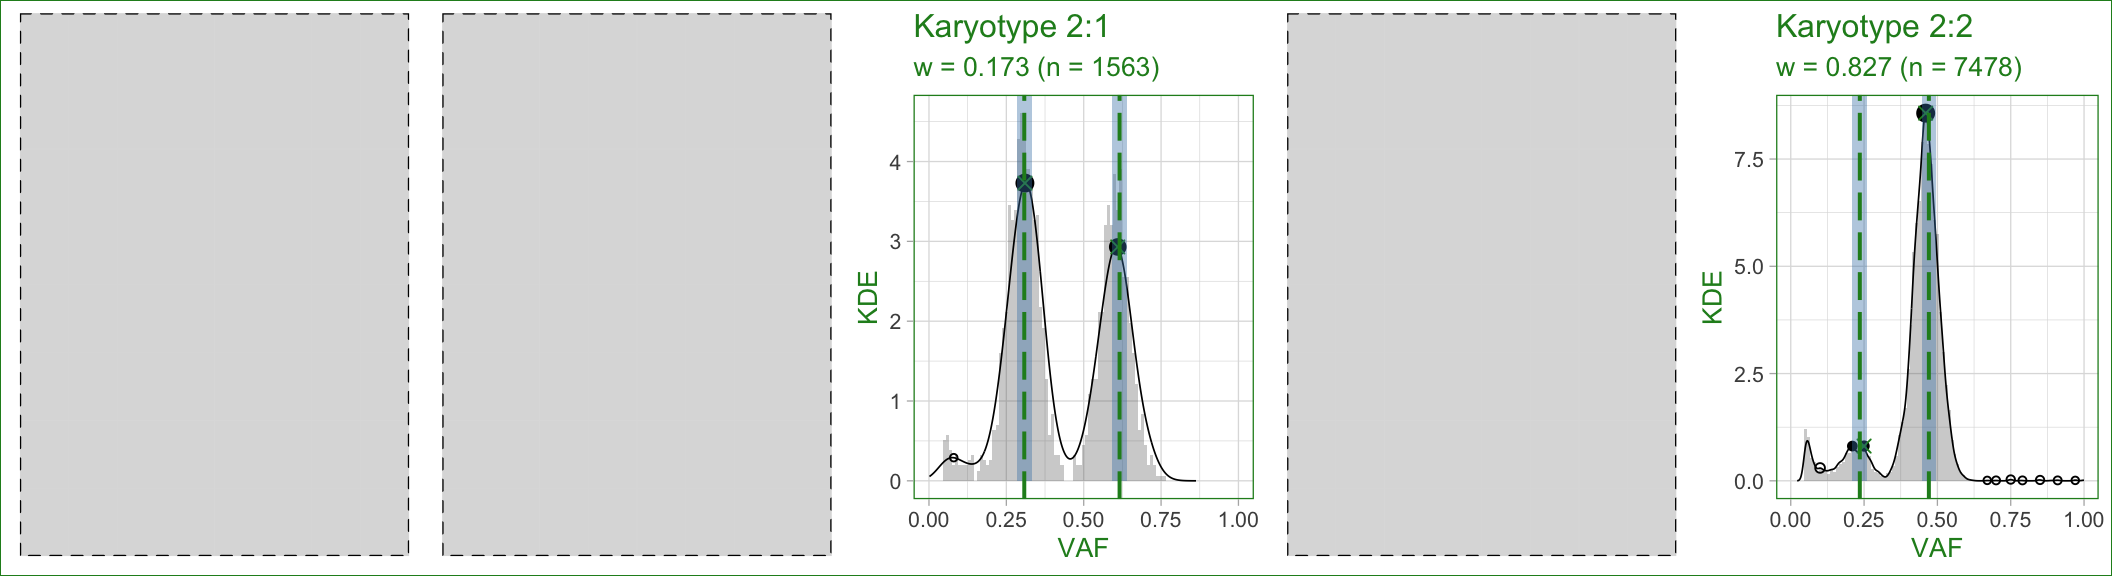
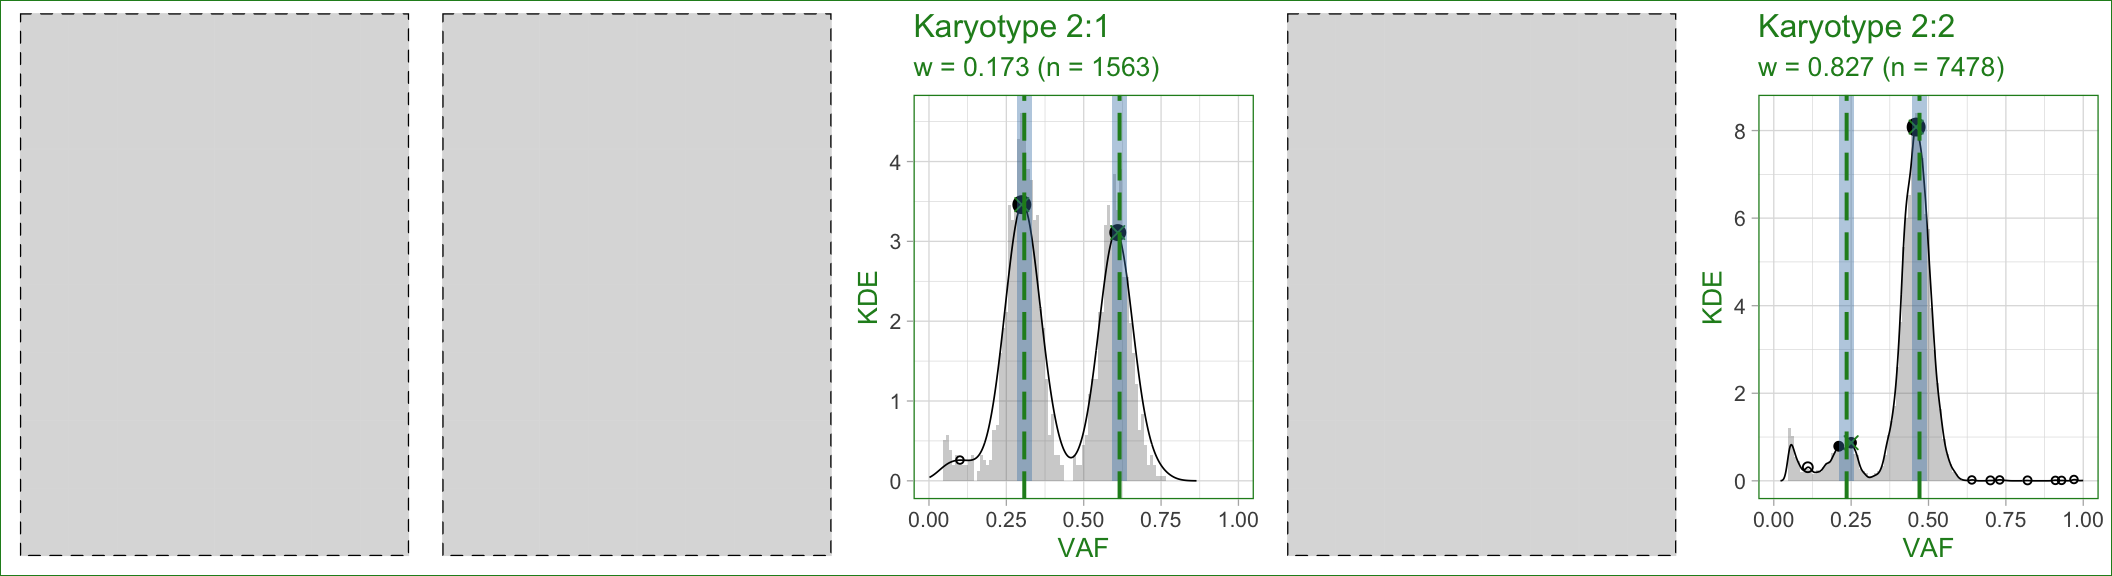
HTML compiled

Changed region(s): [[0.8125, 0.0, 1.0, 0.9688], [0.4688, 0.3125, 0.5312, 0.7188], [0.4375, 0.7812, 0.4688, 0.8125]]

diff --git a/docs/articles/peaks_detection.html b/docs/articles/peaks_detection.html
@@ -18,7 +18,7 @@
 <!-- clipboard.js --><script src="https://cdnjs.cloudflare.com/ajax/libs/clipboard.js/2.0.4/clipboard.min.js" integrity="sha256-FiZwavyI2V6+EXO1U+xzLG3IKldpiTFf3153ea9zikQ=" crossorigin="anonymous"></script><!-- headroom.js --><script src="https://cdnjs.cloudflare.com/ajax/libs/headroom/0.9.4/headroom.min.js" integrity="sha256-DJFC1kqIhelURkuza0AvYal5RxMtpzLjFhsnVIeuk+U=" crossorigin="anonymous"></script><script src="https://cdnjs.cloudflare.com/ajax/libs/headroom/0.9.4/jQuery.headroom.min.js" integrity="sha256-ZX/yNShbjqsohH1k95liqY9Gd8uOiE1S4vZc+9KQ1K4=" crossorigin="anonymous"></script><!-- pkgdown --><link href="../pkgdown.css" rel="stylesheet">
 <script src="../pkgdown.js"></script><meta property="og:title" content="QC analysis via peaks detection">
 <meta property="og:description" content="">
-<meta property="og:image" content="caravagn.github.io/revolver/logo.png">
+<meta property="og:image" content="caravagn.github.io/CNAqc/logo.png">
 <meta name="twitter:card" content="summary">
 <!-- mathjax --><script src="https://cdnjs.cloudflare.com/ajax/libs/mathjax/2.7.5/MathJax.js" integrity="sha256-nvJJv9wWKEm88qvoQl9ekL2J+k/RWIsaSScxxlsrv8k=" crossorigin="anonymous"></script><script src="https://cdnjs.cloudflare.com/ajax/libs/mathjax/2.7.5/config/TeX-AMS-MML_HTMLorMML.js" integrity="sha256-84DKXVJXs0/F8OTMzX4UR909+jtl4G7SPypPavF+GfA=" crossorigin="anonymous"></script><!--[if lt IE 9]>
 <script src="https://oss.maxcdn.com/html5shiv/3.7.3/html5shiv.min.js"></script>
@@ -118,6 +118,9 @@
 <p>We work with the <a href="https://caravagn.github.io/CNAqc/articles/Introduction.html">template dataset</a>.</p>
 <p>Peak detection routines can are implemented in function <code>analyze_peaks</code>.</p>
 <p>The idea is as follows: a segment with <span class="math inline">\(m\)</span> and <span class="math inline">\(M\)</span> copies of the minor and major alleles is consistent to mutation data if the VAF distribution peaks at certain values, which we can compute. Profiling then of the VAF distribution with a peak-detection heuristic allows <code>CNAqc</code> to measure the if peaks match. Large deviance suggests usually wrong purity estimation.</p>
+<div id="peak-analysis" class="section level1">
+<h1 class="hasAnchor">
+<a href="#peak-analysis" class="anchor"></a>Peak analysis</h1>
 <div class="sourceCode" id="cb2"><pre class="sourceCode r"><code class="sourceCode r"><a class="sourceLine" id="cb2-1" data-line-number="1"><span class="co"># Run default analysis</span></a>
 <a class="sourceLine" id="cb2-2" data-line-number="2">x =<span class="st"> </span><span class="kw"><a href="../reference/analyze_peaks.html">analyze_peaks</a></span>(x)</a>
 <a class="sourceLine" id="cb2-3" data-line-number="3"><span class="co">#&gt; ℹ Requested karyotypes 1:0, 1:1, 2:1, 2:0 and 2:2.</span></a>
@@ -125,17 +128,17 @@
 <a class="sourceLine" id="cb2-5" data-line-number="5"><span class="co">#&gt; # A tibble: 4 x 12</span></a>
 <a class="sourceLine" id="cb2-6" data-line-number="6"><span class="co">#&gt;   mutation_multip… karyotype  peak     x     y counts_per_bin discarded   offset</span></a>
 <a class="sourceLine" id="cb2-7" data-line-number="7"><span class="co">#&gt;              &lt;dbl&gt; &lt;chr&gt;     &lt;dbl&gt; &lt;dbl&gt; &lt;dbl&gt;          &lt;int&gt; &lt;lgl&gt;        &lt;dbl&gt;</span></a>
-<a class="sourceLine" id="cb2-8" data-line-number="8"><span class="co">#&gt; 1                2 2:1       0.616  0.61  2.93             51 FALSE      0.00592</span></a>
-<a class="sourceLine" id="cb2-9" data-line-number="9"><span class="co">#&gt; 2                1 2:1       0.308  0.31  3.73             64 FALSE     -0.00204</span></a>
-<a class="sourceLine" id="cb2-10" data-line-number="10"><span class="co">#&gt; 3                2 2:2       0.471  0.46  8.57            686 FALSE      0.0109 </span></a>
-<a class="sourceLine" id="cb2-11" data-line-number="11"><span class="co">#&gt; 4                1 2:2       0.235  0.25  0.81             72 FALSE     -0.0146 </span></a>
+<a class="sourceLine" id="cb2-8" data-line-number="8"><span class="co">#&gt; 1                2 2:1       0.616  0.61  3.11             59 FALSE      0.00592</span></a>
+<a class="sourceLine" id="cb2-9" data-line-number="9"><span class="co">#&gt; 2                1 2:1       0.308  0.3   3.46             86 FALSE      0.00796</span></a>
+<a class="sourceLine" id="cb2-10" data-line-number="10"><span class="co">#&gt; 3                2 2:2       0.471  0.46  8.08            610 FALSE      0.0109 </span></a>
+<a class="sourceLine" id="cb2-11" data-line-number="11"><span class="co">#&gt; 4                1 2:2       0.235  0.25  0.87             74 FALSE     -0.0146 </span></a>
 <a class="sourceLine" id="cb2-12" data-line-number="12"><span class="co">#&gt; # … with 4 more variables: matched &lt;lgl&gt;, weight &lt;dbl&gt;, score &lt;dbl&gt;, QC &lt;chr&gt;</span></a>
-<a class="sourceLine" id="cb2-13" data-line-number="13"><span class="co">#&gt; ✓ Peak detection PASS with r = -0.00117483319779741 and tolerance e = 0.05</span></a></code></pre></div>
+<a class="sourceLine" id="cb2-13" data-line-number="13"><span class="co">#&gt; ✓ Peak detection PASS with r = -0.000310437666329653 and tolerance e = 0.05</span></a></code></pre></div>
 <p><code>CNAqc</code> analyze LOH regions (A, AA), diploid regions (AB), and amplification regions (AAB, AABB). These correspond to <code>'1:1'</code>, <code>'2:1'</code>, <code>'2:0'</code> and <code>'2:2'</code> in “Major:minor” notation. Karyotypes are subset by their size (normalized for the number of input mutations), and by default karyotypes smaller than 5% of the actual mutational burden are not considered</p>
 <p>A Kernel-density method (unitary adjustment, Gaussian kernel) is used to smooth the data distribution, and the <code>peakPick</code> package to determine peaks in the smoothed density. Peaks below a mnimum density (noise and miscalled segments) are filtered, and the others are matched to a predefined location with some tolerance (e.g., plus/minus <code>0.5 * epsilon</code>, where <code>epsilon = 0.015</code> is the default).</p>
 <p>Theis analysis produces a set of scores that account for karyotype size and peaks offset, and that can be combined into a linear model to compute an overall QC metrics, called <code>rho</code>.</p>
 <div class="sourceCode" id="cb3"><pre class="sourceCode r"><code class="sourceCode r"><a class="sourceLine" id="cb3-1" data-line-number="1"><span class="kw"><a href="https://rdrr.io/r/base/print.html">print</a></span>(x)</a>
-<a class="sourceLine" id="cb3-2" data-line-number="2"><span class="co">#&gt; ── [ CNAqc ]  n = 13141 mutations in 267 segments (267 clonal + 0 subclonal). Genome reference: GRCh38. ─────────────</span></a>
+<a class="sourceLine" id="cb3-2" data-line-number="2"><span class="co">#&gt; ── [ CNAqc ]  n = 13141 mutations in 267 segments (267 clonal + 0 subclonal). Genome reference: GRCh38. ─────────</span></a>
 <a class="sourceLine" id="cb3-3" data-line-number="3"><span class="co">#&gt; </span></a>
 <a class="sourceLine" id="cb3-4" data-line-number="4"><span class="co">#&gt;    2:2  [n = 7478] ■■■■■■■■■■■■■■■■■■■■■■■■■■■</span></a>
 <a class="sourceLine" id="cb3-5" data-line-number="5"><span class="co">#&gt;    4:2  [n = 1893] ■■■■■■■</span></a>
@@ -143,19 +146,20 @@
 <a class="sourceLine" id="cb3-7" data-line-number="7"><span class="co">#&gt;    2:1  [n = 1563] ■■■■■■</span></a>
 <a class="sourceLine" id="cb3-8" data-line-number="8"><span class="co">#&gt;    3:0  [n =  312] ■</span></a>
 <a class="sourceLine" id="cb3-9" data-line-number="9"><span class="co">#&gt; ℹ Sample Purity: 89% ~ Ploidy: 4.</span></a>
-<a class="sourceLine" id="cb3-10" data-line-number="10"><span class="co">#&gt; ✓ QC via peak detection available, score: -0.00117483319779741.</span></a>
+<a class="sourceLine" id="cb3-10" data-line-number="10"><span class="co">#&gt; ✓ QC via peak detection available, score: -0.000310437666329653.</span></a>
 <a class="sourceLine" id="cb3-11" data-line-number="11"><span class="co">#&gt; # A tibble: 4 x 12</span></a>
 <a class="sourceLine" id="cb3-12" data-line-number="12"><span class="co">#&gt;   mutation_multip… karyotype  peak     x     y counts_per_bin discarded   offset</span></a>
 <a class="sourceLine" id="cb3-13" data-line-number="13"><span class="co">#&gt;              &lt;dbl&gt; &lt;chr&gt;     &lt;dbl&gt; &lt;dbl&gt; &lt;dbl&gt;          &lt;int&gt; &lt;lgl&gt;        &lt;dbl&gt;</span></a>
-<a class="sourceLine" id="cb3-14" data-line-number="14"><span class="co">#&gt; 1                2 2:1       0.616  0.61  2.93             51 FALSE      0.00592</span></a>
-<a class="sourceLine" id="cb3-15" data-line-number="15"><span class="co">#&gt; 2                1 2:1       0.308  0.31  3.73             64 FALSE     -0.00204</span></a>
-<a class="sourceLine" id="cb3-16" data-line-number="16"><span class="co">#&gt; 3                2 2:2       0.471  0.46  8.57            686 FALSE      0.0109 </span></a>
-<a class="sourceLine" id="cb3-17" data-line-number="17"><span class="co">#&gt; 4                1 2:2       0.235  0.25  0.81             72 FALSE     -0.0146 </span></a>
+<a class="sourceLine" id="cb3-14" data-line-number="14"><span class="co">#&gt; 1                2 2:1       0.616  0.61  3.11             59 FALSE      0.00592</span></a>
+<a class="sourceLine" id="cb3-15" data-line-number="15"><span class="co">#&gt; 2                1 2:1       0.308  0.3   3.46             86 FALSE      0.00796</span></a>
+<a class="sourceLine" id="cb3-16" data-line-number="16"><span class="co">#&gt; 3                2 2:2       0.471  0.46  8.08            610 FALSE      0.0109 </span></a>
+<a class="sourceLine" id="cb3-17" data-line-number="17"><span class="co">#&gt; 4                1 2:2       0.235  0.25  0.87             74 FALSE     -0.0146 </span></a>
 <a class="sourceLine" id="cb3-18" data-line-number="18"><span class="co">#&gt; # … with 4 more variables: matched &lt;lgl&gt;, weight &lt;dbl&gt;, score &lt;dbl&gt;, QC &lt;chr&gt;</span></a></code></pre></div>
 <p>A summary table is stored inside the named list <code>peaks_analysis</code>.</p>
-<div id="plotting-results" class="section level3">
-<h3 class="hasAnchor">
-<a href="#plotting-results" class="anchor"></a>Plotting results</h3>
+</div>
+<div id="plotting-results" class="section level1">
+<h1 class="hasAnchor">
+<a href="#plotting-results" class="anchor"></a>Plotting results</h1>
 <p>For every karyotype, a plot with the estimated KDE and the matched peaks is available (assembled <code>ggpubr</code> figure with); gray panels represent karyotypes that have not been used.</p>
 <div class="sourceCode" id="cb4"><pre class="sourceCode r"><code class="sourceCode r"><a class="sourceLine" id="cb4-1" data-line-number="1"><span class="kw"><a href="../reference/plot_peaks_analysis.html">plot_peaks_analysis</a></span>(x)</a></code></pre></div>
 <p><img src="peaks_detection_files/figure-html/unnamed-chunk-5-1.png" width="1056"></p>
@@ -171,14 +175,51 @@
 <a class="sourceLine" id="cb6-5" data-line-number="5">  <span class="dt">nrow =</span> <span class="dv">2</span></a>
 <a class="sourceLine" id="cb6-6" data-line-number="6">)</a></code></pre></div>
 <p><img src="peaks_detection_files/figure-html/unnamed-chunk-7-1.png" width="1056"></p>
-<p>You can visually summarise the result of the QC analysis, which reports a small set of radio buttons (remote) for</p>
-<div class="sourceCode" id="cb7"><pre class="sourceCode r"><code class="sourceCode r"><a class="sourceLine" id="cb7-1" data-line-number="1"><span class="kw"><a href="../reference/plot_qc.html">plot_qc</a></span>(<span class="kw"><a href="../reference/compute_CCF.html">compute_CCF</a></span>(x))</a></code></pre></div>
-<p><img src="peaks_detection_files/figure-html/unnamed-chunk-8-1.png" width="288"></p>
+</div>
+<div id="summary-results-and-quality-check-qc" class="section level1">
+<h1 class="hasAnchor">
+<a href="#summary-results-and-quality-check-qc" class="anchor"></a>Summary results and Quality Check (QC)</h1>
+<p>The summary technical table is available as <code>peaks_analysis$matches</code> inside <code>x</code>.</p>
+<div class="sourceCode" id="cb7"><pre class="sourceCode r"><code class="sourceCode r"><a class="sourceLine" id="cb7-1" data-line-number="1">x<span class="op">$</span>peaks_analysis<span class="op">$</span>matches</a>
+<a class="sourceLine" id="cb7-2" data-line-number="2"><span class="co">#&gt; # A tibble: 4 x 12</span></a>
+<a class="sourceLine" id="cb7-3" data-line-number="3"><span class="co">#&gt;   mutation_multip… karyotype  peak     x     y counts_per_bin discarded   offset</span></a>
+<a class="sourceLine" id="cb7-4" data-line-number="4"><span class="co">#&gt;              &lt;dbl&gt; &lt;chr&gt;     &lt;dbl&gt; &lt;dbl&gt; &lt;dbl&gt;          &lt;int&gt; &lt;lgl&gt;        &lt;dbl&gt;</span></a>
+<a class="sourceLine" id="cb7-5" data-line-number="5"><span class="co">#&gt; 1                2 2:1       0.616  0.61  3.11             59 FALSE      0.00592</span></a>
+<a class="sourceLine" id="cb7-6" data-line-number="6"><span class="co">#&gt; 2                1 2:1       0.308  0.3   3.46             86 FALSE      0.00796</span></a>
+<a class="sourceLine" id="cb7-7" data-line-number="7"><span class="co">#&gt; 3                2 2:2       0.471  0.46  8.08            610 FALSE      0.0109 </span></a>
+<a class="sourceLine" id="cb7-8" data-line-number="8"><span class="co">#&gt; 4                1 2:2       0.235  0.25  0.87             74 FALSE     -0.0146 </span></a>
+<a class="sourceLine" id="cb7-9" data-line-number="9"><span class="co">#&gt; # … with 4 more variables: matched &lt;lgl&gt;, weight &lt;dbl&gt;, score &lt;dbl&gt;, QC &lt;chr&gt;</span></a></code></pre></div>
+<p>The table reports several information. The following might be of some use after the analysis:</p>
+<ul>
+<li>
+<code>mutation_multiplicity</code> and <code>karyotype</code>, which are the number of copies of the mutation, and the segment’s karyotype. Each segment with <code>discarded = FALSE</code> has been analysed;</li>
+<li>
+<code>peak</code>, <code>x</code>, <code>y</code> report where the expected peak should be found, and where it has been found (<code>x</code> and <code>y</code>);</li>
+<li>
+<code>offset</code>, <code>weight</code> and <code>score</code> that report the factors of the final <code>score</code>;</li>
+<li>
+<code>QC</code> that reports if the peak is considered matched.</li>
+</ul>
+<p>The overall <code>QC</code> result - <code>"PASS"/"FAIL"</code> - is available in <code>x</code>.</p>
+<div class="sourceCode" id="cb8"><pre class="sourceCode r"><code class="sourceCode r"><a class="sourceLine" id="cb8-1" data-line-number="1">x<span class="op">$</span>peaks_analysis<span class="op">$</span>QC</a>
+<a class="sourceLine" id="cb8-2" data-line-number="2"><span class="co">#&gt; [1] "PASS"</span></a></code></pre></div>
+<p>You can visually summarise the result of the QC analysis, for both peaks and <a href="https://caravagn.github.io/CNAqc/articles/ccf_computation.html">CCF computation</a>.</p>
+<div class="sourceCode" id="cb9"><pre class="sourceCode r"><code class="sourceCode r"><a class="sourceLine" id="cb9-1" data-line-number="1"><span class="kw"><a href="../reference/plot_qc.html">plot_qc</a></span>(x)</a></code></pre></div>
+<p><img src="peaks_detection_files/figure-html/unnamed-chunk-10-1.png" width="288"> Here since CCF have not been computed, the only available QC tests are for peak-detection.</p>
 </div>
   </div>
 
   <div class="col-md-3 hidden-xs hidden-sm" id="sidebar">
 
+        <div id="tocnav">
+      <h2 class="hasAnchor">
+<a href="#tocnav" class="anchor"></a>Contents</h2>
+      <ul class="nav nav-pills nav-stacked">
+<li><a href="#peak-analysis">Peak analysis</a></li>
+      <li><a href="#plotting-results">Plotting results</a></li>
+      <li><a href="#summary-results-and-quality-check-qc">Summary results and Quality Check (QC)</a></li>
+      </ul>
+</div>
       </div>
 
 </div>
